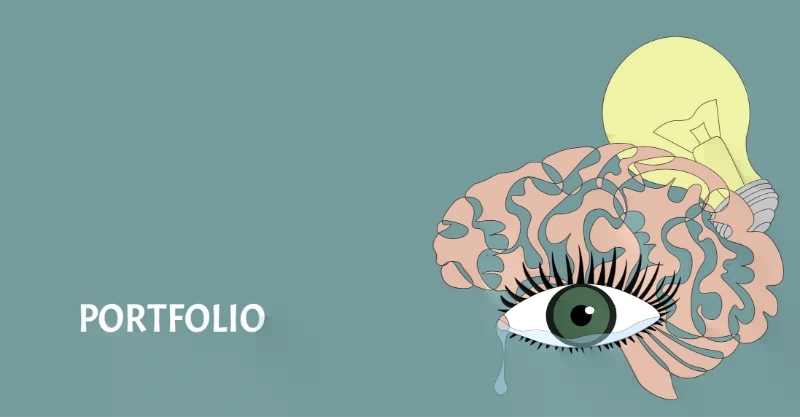
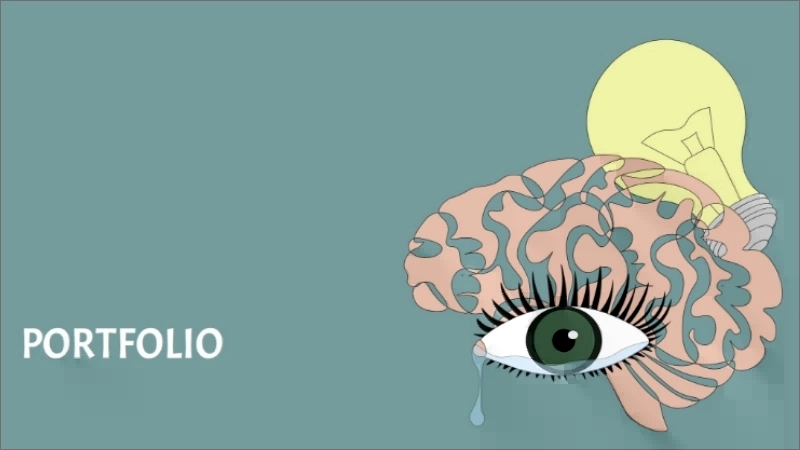
nyt indhold tilføjet portfolio

diff --git a/portfolio.html b/portfolio.html
@@ -10,21 +10,108 @@
   </head>
   <body>
     <header class="burger">
-      <button class="toggle-btn"><h3>≡</h3></button>
+      <button class="toggle-btn">≡</button>
       <nav>
         <ul>
           <li>
-            <a href="index.html"><h3>FORSIDE</h3></a>
+            <a href="index.html"><h2>FORSIDE</h2></a>
           </li>
           <li>
-            <a href="#portfolio"><h3>PORTFOLIO</h3></a>
+            <a href="#portfolio"><h2>PORTFOLIO</h2></a>
           </li>
           <li>
-            <a href="ommig.html"><h3>OM MIG</h3></a>
+            <a href="ommig.html"><h2>OM MIG</h2></a>
           </li>
         </ul>
       </nav>
     </header>
+    <main>
+      <section id="tema1">
+        <div class="opgave2">
+          <a href="portfolio.html#tema2">
+            <img src="webp/tema2.webp" alt="splashbillede" />
+            <h4>Grundlæggende web</h4></a
+          >
+        </div>
+        <div class="opgave3">
+          <img src="webp/tema3.webp" />
+          <a href="portfolio.html#tema3"><h4>Grundlæggende UX</h4></a>
+        </div>
+        <div class="opgave4">
+          <img src="webp/tema4.webp" />
+          <a href="portfolio.html#tema4"><h4>Grundlæggende animation</h4></a>
+        </div>
+        <div class="opgave5">
+          <img src="webp/tema5.webp" />
+          <a href="portfolio.html#tema5"><h4>Grundlæggende indhold</h4></a>
+        </div>
+        <div class="opgave6">
+          <img src="webp/tema6.webp" />
+          <a href="portfolio.html#tema6"><h4>Portfolio eksamen</h4></a>
+        </div>
+      </section>
+      <section id="tema2">
+        <div class="temawrapper">
+          <div class="col">
+            <h3>Tema 2 Grundlæggende web</h3>
+            <h4>Overordnede læringsmål</h4>
+            <p>
+              På tema 2 fik vi grundlæggende viden og redskaber til at kunne
+              designe brugergrænseflader, lave digitalt indhold, opsætte
+              websider og gøre dem responsive.
+            </p>
+            <h4>Hvad har jeg lært</h4>
+            <p>
+              Jeg lærte at samarbejde med andre om at researche og pitche en
+              tildelt stil. Jeg arbejdede med Moodboards og Stile Tile som en
+              metode til at beskrive stilen, herunder typografien. Jeg blev
+              præsenteret for grundlæggende viden om komposition og layout,
+              såsom gestaltlove og kontraster, gridbaseret layout,
+              farveharmonier, rytme i layout, rule of thirds ect. som er metoder
+              til at designe brugergrænseflader. Jeg lærte at skalere billeder i
+              XD og designe et splashbillede til min forside i Photoshop. Jeg
+              lærte også at lave mock-up i XD ud fra en wireframe, som jeg
+              efterfølgende opsatte med HTML i VS code og stylede med CSS. Jeg
+              stiftede bekendskab med forskellige sider, hvor vi kunne søge
+              efter viden eller øvelser inden for kodning fx w3 school eller
+              codefreecamp. Jeg lærte at lave mobilefirst og tilpasse CSS med
+              media-quaries for at gøre sitet responsivt. Jeg lærte at bruge
+              grids til at placere vores indhold på websiden. Jeg lærte løbende
+              igennem forløbet at validere min side og rette den for eventuelle
+              fejl inden upload.
+            </p>
+          </div>
+          <div class="col">
+            <h4>Eksempel på processen</h4>
+            <p>
+              Jeg designede et splashbillede til mit website i Photoshop.
+              Layoutet skulle være simpelt, klart i udtrykket og afspejle
+              indholdet på siden. Men da jeg havde brutalismen som stil, ville
+              jeg gerne have det også udtrykte noget grimt, farverigt og
+              kaotisk. Jeg valgte mørkere mosgrøn baggrundsfarve sammen med
+              meget skrigende lysere farver. Jeg valgte at tegne en asymmetrisk
+              diagonal-krydskomposition med brush tool og derefter placere de
+              figurer jeg havde klippet ud i mit diagonale kryds. Figurerne
+              tegnede jeg efterfølgende op med en neon gul streg.
+            </p>
+            <img src="webp/tema2.webp" alt="splashbillede" />
+            <p>
+              Jeg valgte i Adobe at lave et farveudtræk af mit splashbillede og
+              bruge farverne i indholdet på mit website. Med brutalismen i
+              baghovedet brød jeg konventionerne og lavede en mørk baggrund med
+              en lys brødskift, jeg havde dog tjekket via adobe color fået den
+              godkendt til brødskrift for 17pkt. og under. Jeg valgte neonfarver
+              til selve overskrifterne. Jeg lagde lidt skygger på alt min tekst
+              for at fremhæve den.
+            </p>
+          </div>
+        </div>
+      </section>
+      <section id="tema3"></section>
+      <section id="tema4"></section>
+      <section id="tema5"></section>
+      <section id="tema6"></section>
+    </main>
     <script src="navigation.js"></script>
   </body>
 </html>

diff --git a/index.css b/index.css
@@ -6,9 +6,20 @@ body {
   background-color: #759c9c;
 }
 
+main {
+  display: grid;
+  grid-template-columns: 1fr minmax(0, 1400px) 1fr;
+  place-content: center;
+}
+
+main section {
+  grid-column: 2/3;
+}
+
 * {
   margin: 0;
   padding: 0;
+  box-sizing: border-box;
 }
 
 /* Navbaren starter her------ */
@@ -19,39 +30,45 @@ body {
   overflow: hidden;
   display: flex;
   justify-content: space-evenly;
-  /* padding: 0.5rem; */
-}
-
-.forside_txt {
-  position: absolute;
-  top: 65%;
-  left: 10%;
-  color: #fff;
-  font-family: "Acme", sans-serif;
-  font-size: 5rem;
 }
 
 li a {
   display: flex;
-  color: #f0f3a6;
+
   text-align: center;
+}
+
+a {
+  font-family: "acme", sans-serif;
   text-decoration: none;
+  color: #fff;
+}
+
+a h4 {
+  background-color: #374a4a;
+  color: #fff;
 }
 
 a:hover {
   color: #f0f3a6;
 }
 
+.toggle-btn {
+  display: none;
+}
+
 /* Her starter SVG forside med tekst------- */
 
 #screen {
+  display: grid;
+  grid-column: 1/4;
   width: 100%;
   aspect-ratio: 16/9;
   position: relative;
 }
 
 .forside {
-  /* position: absolute; */
+  position: absolute;
   top: 0;
   left: 0;
   width: 100%;
@@ -60,10 +77,70 @@ a:hover {
   background-size: cover;
 }
 
-/* Her er burgermenuen------- */
+.forside_txt h1 {
+  position: absolute;
+  top: 64%;
+  left: 10%;
+  color: #fff;
+  font-family: "Acme", sans-serif;
+  font-size: 2rem;
+}
 
-.toggle-btn {
-  display: none;
+/* #temamenu img {
+  border: 5px solid #f0f3a6;
+} */
+
+.opgave2,
+.opgave3,
+.opgave4,
+.opgave5,
+.opgave6 {
+  border: 5px solid #f0f3a6;
+  margin: 10px;
+}
+
+/* Overskifter familie og str. m.m.--------------- */
+
+h2 {
+  font-family: "acme", sans-serif;
+  font-size: 1rem;
+  padding: 0.25rem;
+}
+
+h3 {
+  font-family: "acme", sans-serif;
+  font-size: 1.8rem;
+  padding: 0.25rem;
+  color: #374a4a;
+}
+
+h4 {
+  font-size: 1.2rem;
+  padding: 0.25rem;
+  color: #374a4a;
+}
+
+footer {
+  list-style-type: none;
+  overflow: hidden;
+  display: flex;
+  padding: 1rem;
+  color: #fff;
+  background-color: #374a4a;
+  font-size: 0.875rem;
+  list-style: none;
+}
+
+@media (min-width: 600px) {
+  .forside_txt h1 {
+    font-size: 6rem;
+  }
+}
+@media (min-width: 600px) {
+  h2 {
+    font-size: 2rem;
+    padding: 0.5rem;
+  }
 }
 
 @media (max-width: 600px) {
@@ -99,31 +176,39 @@ a:hover {
     flex-flow: column;
   }
 }
-/* Overskifter familie og str. m.m.--------------- */
 
-h3 {
-  font-size: 1rem;
-  padding: 0.25rem;
-}
+@media (min-width: 1000px) {
+  #tema1 {
+    display: grid;
+    grid-template-columns: repeat(5, 1fr);
+    grid-template-rows: repeat(4, 1fr);
+    gap: 10px;
+    /* padding: 0.1px;
+    margin: 150px 80px 0px 80px; */
+  }
 
-h4 {
-  font-size: 0.875rem;
-}
+  .opgave2 {
+    grid-column: 1/2;
+    grid-row: 2/3;
+  }
 
-footer {
-  list-style-type: none;
-  overflow: hidden;
-  display: flex;
-  padding: 1rem;
-  color: #fff;
-  background-color: #374a4a;
-  font-size: 0.875rem;
-  list-style: none;
-}
+  .opgave3 {
+    grid-column: 2/3;
+    grid-row: 3/4;
+  }
 
-@media (min-width: 600px) {
-  h3 {
-    font-size: 1.8rem;
-    padding: 1rem;
+  .opgave4 {
+    grid-column: 3/4;
+    grid-row: 2/3;
+  }
+
+  .opgave5 {
+    grid-column: 4/5;
+    grid-row: 3/4;
+  }
+
+  .opgave6 {
+    grid-column: 5/6;
+    grid-row: 2/3;
   }
 }

diff --git a/index.html b/index.html
@@ -21,13 +21,13 @@
       <nav>
         <ul>
           <li>
-            <a href="#index"><h3>FORSIDE</h3></a>
+            <a href="#index"><h2>FORSIDE</h2></a>
           </li>
           <li>
-            <a href="portfolio.html"><h3>PORTFOLIO</h3></a>
+            <a href="portfolio.html"><h2>PORTFOLIO</h2></a>
           </li>
           <li>
-            <a href="ommig.html"><h3>OM MIG</h3></a>
+            <a href="ommig.html"><h2>OM MIG</h2></a>
           </li>
         </ul>
       </nav>
@@ -35,11 +35,13 @@
     <main>
       <div id="screen">
         <div class="forside">
-          <div class="forside_txt">PORTFOLIO</div>
+          <div class="forside_txt">
+            <h1>PORTFOLIO</h1>
+          </div>
         </div>
       </div>
     </main>
-    <footer><h4>LAVET AF KRISTINA SEEFELD ANDERSEN</h4></footer>
+    <footer><h5>LAVET AF KRISTINA SEEFELD ANDERSEN</h5></footer>
     <script src="navigation.js"></script>
   </body>
 </html>

diff --git a/ommig.html b/ommig.html
@@ -10,17 +10,17 @@
   </head>
   <body>
     <header class="burger">
-      <button class="toggle-btn"><h3>≡</h3></button>
+      <button class="toggle-btn">≡</button>
       <nav>
         <ul>
           <li>
-            <a href="index.html"><h3>FORSIDE</h3></a>
+            <a href="index.html"><h2>FORSIDE</h2></a>
           </li>
           <li>
-            <a href="portfolio.html"><h3>PORTFOLIO</h3></a>
+            <a href="portfolio.html"><h2>PORTFOLIO</h2></a>
           </li>
           <li>
-            <a href="#ommig"><h3>OM MIG</h3></a>
+            <a href="#ommig"><h2>OM MIG</h2></a>
           </li>
         </ul>
       </nav>
